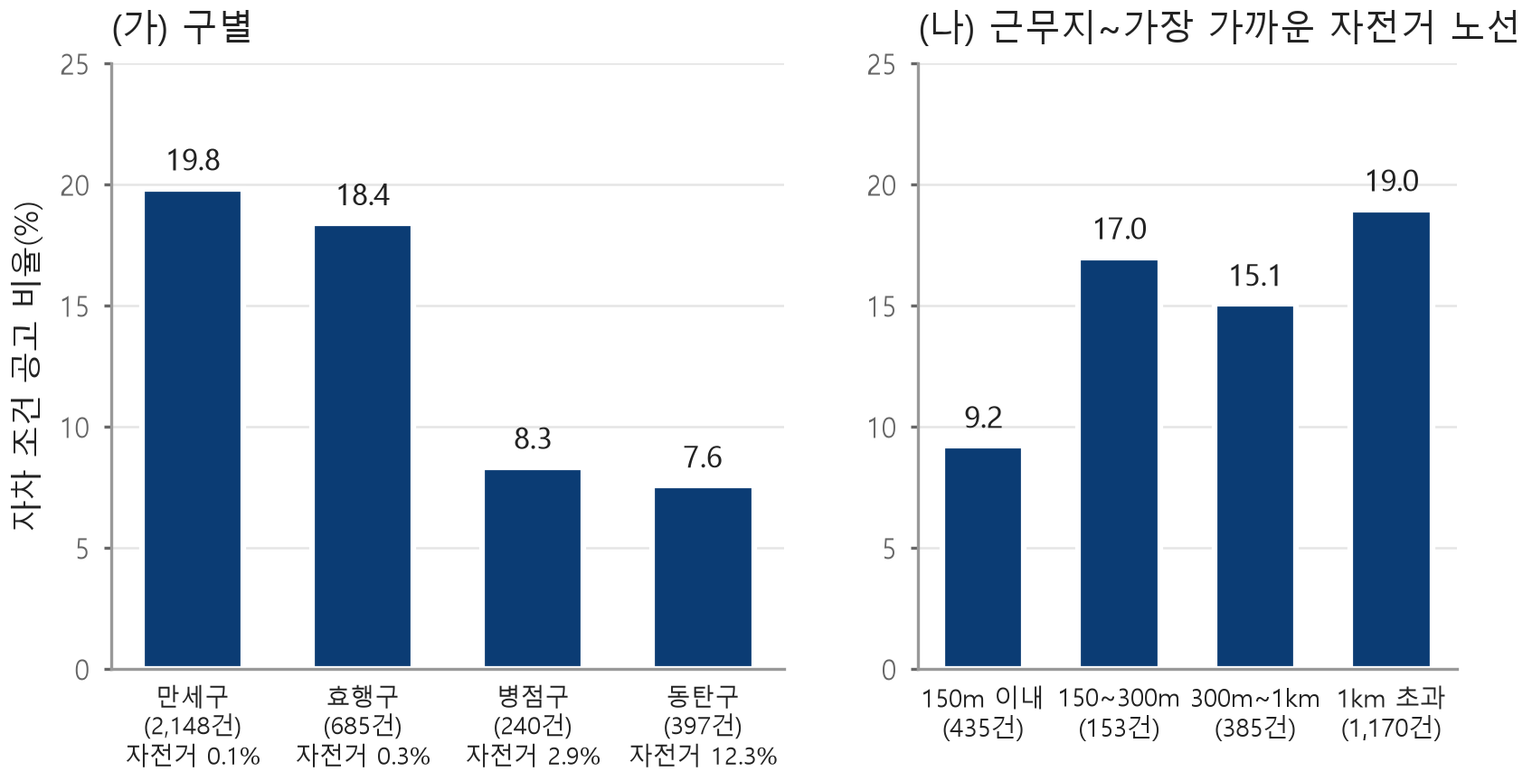
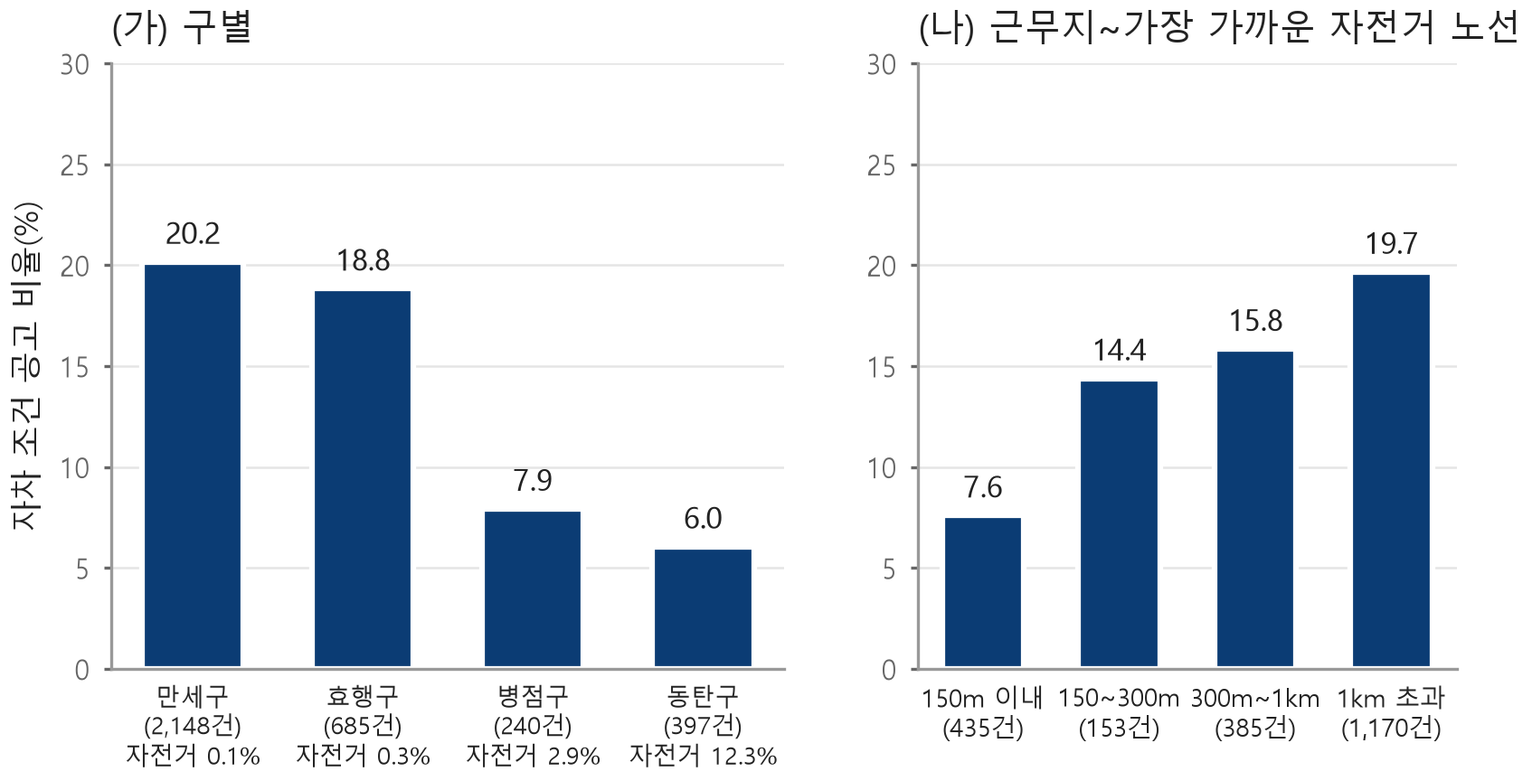
Update jobs analysis: parser fix and full review of 852 postings
Parser now keeps comma-separated preference text and the other-wishes field;
candidates re-selected (852) and every posting re-read for the final labels.
Aggregates, figure and prompts updated.

diff --git a/jobs/scripts/03_prepare.py b/jobs/scripts/03_prepare.py
@@ -1,6 +1,6 @@
 """AI 분류 대상 선정·배치 작성과 규칙 기반 기준 분류.
 
-대상: 우대조건 '차량소지자'이거나, 본문·우대·복리후생에 자차·차량 소지·출퇴근·통근·대중교통 표현이 있는 공고.
+대상: 우대조건 '차량소지자'이거나, 본문·기타 우대사항·그 밖의 희망사항·기타 복리후생에 자차·차량 소지·출퇴근·통근·대중교통 표현이 있는 공고.
 AI에는 분류에 필요한 칸만 넣는다(전화·이메일은 02에서 지움, 담당자 정보는 처음부터 없음).
 규칙 기준(rule_*)은 AI 없이 정규식만으로 같은 항목을 판정해, AI가 더해 준 것이 무엇인지 비교하는 데 쓴다.
 """
@@ -8,7 +8,8 @@ import json, os, random, re
 from pathlib import Path
 
 DATA = Path(os.environ.get('JOBS_DATA', 'jobs_private'))
-CAR = re.compile(r'자차|자가용|자가\s*차량|개인\s*차량|본인\s*차량|차량\s*(?:소지|소유|보유)|차량소지|차\s*(?:있으신|있는)\s*분')
+CAR = re.compile(r'자차|자가용|자가\s*차량|자가\s*운전|개인\s*차량|본인\s*차량|차량\s*(?:소지|소유|보유)|차량소지|차\s*(?:있으신|있는)\s*분|'
+                 r'자동차\s*(?:로\s*)?(?:출근|출퇴근|통근)|차량\s*(?:을|으로|로)?\s*(?:이용|출근|출퇴근|통근)')
 COMMUTE = re.compile(r'출퇴근|출\s*퇴근|통근|대중교통|교통편|교통이?\s*불편|셔틀')
 MUST = re.compile(r'(?:자차|자가용|차량|차)\s*(?:소지|소유|보유)?\s*(?:필수|필요|필히|있어야|있으셔야|소지자만|가능자만)|(?:필수)\s*[:：]?\s*[^■◆]{0,30}(?:자차|자가용|차량\s*소지)')
 WORK_DRIVE = re.compile(r'방문|라운딩|배송|배달|영업|출장|납품|외근|현장\s*(?:이동|순회)|순회|운전\s*(?:업무|가능자 필수)')
@@ -16,7 +17,7 @@ BATCH = 40
 
 
 def text_of(r):
-    return ' '.join([r['title'], r['body'], r['pref_other'], r['benefit_other']])
+    return ' '.join([r['title'], r['body'], r['pref_other'], r['other_wish'], r['benefit_other']])
 
 
 def rule_label(r):
@@ -42,9 +43,18 @@ def ai_record(r):
         body = ' … '.join(keep)[:2500]
     return dict(id=r['id'], title=r['title'], occupation=r['occupation'], industry=r['industry'],
                 work_hours=r['work_hours'][:200], work_form=r['work_form'][:80],
-                pref_condition=r['pref_condition'], pref_other=r['pref_other'][:400],
+                pref_condition=r['pref_condition'], pref_other=r['pref_other'][:400], other_wish=r['other_wish'][:400],
                 benefit_shuttle='제공' if r['benefits'].get('통근버스') else '미제공',
                 benefit_other=r['benefit_other'][:200], body=body)
+
+
+def same_input(old, new):
+    """예전 배치에는 other_wish 칸이 없었다. 그 칸이 비어 있으면('-') 같은 입력으로 본다."""
+    if old is None:
+        return False
+    if 'other_wish' not in old and new.get('other_wish', '') in ('', '-'):
+        new = {k: v for k, v in new.items() if k != 'other_wish'}
+    return old == new
 
 
 def main():
@@ -57,13 +67,15 @@ def main():
         r.update(rule_label(r))
         if r['cand']:
             cand.append(r)
-    # 수집 도중에 분류를 시작할 수 있게, 이미 배치에 들어간 공고는 그대로 두고 새 후보만 새 배치로 덧붙인다
+    # 수집 도중에 분류를 시작할 수 있게, 이미 배치에 들어간 공고는 그대로 두고 새 후보만 새 배치로 덧붙인다.
+    # 파싱을 고쳐 AI 입력이 달라진 공고도 새 배치로 다시 넣는다(04는 뒤 배치의 입력·라벨로 덮어쓴다).
     bdir = DATA / 'batches'
     bdir.mkdir(exist_ok=True)
-    done = set()
-    for p in bdir.glob('batch_*.json'):
-        done |= {r['id'] for r in json.loads(p.read_text(encoding='utf-8'))}
-    new = sorted((r for r in cand if r['id'] not in done), key=lambda r: r['id'])
+    done = {}
+    for p in sorted(bdir.glob('batch_*.json')):
+        done |= {r['id']: r for r in json.loads(p.read_text(encoding='utf-8'))}
+    new = sorted((r for r in cand if not same_input(done.get(r['id']), ai_record(r))), key=lambda r: r['id'])
+    n_changed = sum(r['id'] in done for r in new)
     random.Random(20261022).shuffle(new)  # 배치에 구·업종이 몰리지 않게 섞는다(고정 시드)
     start = len(list(bdir.glob('batch_*.json')))
     for k, i in enumerate(range(0, len(new), BATCH)):
@@ -74,7 +86,8 @@ def main():
             f.write(json.dumps({k: r[k] for k in ('id', 'info_type', 'gu', 'occupation', 'industry', 'flag_pref_car', 'cand',
                                                   'rule_car_level', 'rule_car_purpose')} |
                                {'shuttle_struct': r['benefits'].get('통근버스', False)}, ensure_ascii=False) + '\n')
-    print(f'postings {len(recs)}, candidates {len(cand)}, new {len(new)}, batch files {len(list(bdir.glob("batch_*.json")))}')
+    print(f'postings {len(recs)}, candidates {len(cand)}, new {len(new)} (input changed {n_changed}), '
+          f'batch files {len(list(bdir.glob("batch_*.json")))}')
 
 
 if __name__ == '__main__':

diff --git a/jobs/scripts/05_analyze.py b/jobs/scripts/05_analyze.py
@@ -4,6 +4,8 @@
 지표(공고 비율):
   car_any      자차 조건(필수·우대)이 있는 공고
   car_nonwork  그중 차가 업무 자체에 필요한 경우(방문·배송·영업 등)를 뺀 공고 = 차가 출퇴근·지원 조건으로 작동할 수 있는 공고
+               (업무 = 개인 차량 업무 이동이 적힌 공고 + 직무가 근무지 밖 이동인데 회사 차량 언급이 없는 업무추정 공고)
+  민감도       업무라고 명시된 공고만 뺀 값(car_nonwork_explicit)
   car_commute  출퇴근·대중교통 불편을 이유로 적은 공고
 근무지 거리: 공고의 근무 예정지 좌표(고용24 지도 좌표) → 복원한 합집합 자전거망(측면 접속 가능한 노선), GBIS 노선 정류소.
 결과는 집계만 results/에 쓴다. 공고별 원문·좌표는 JOBS_DATA(비공개)에만 둔다.
@@ -39,10 +41,6 @@ OCC_RULES = [  # 고용24 '모집 직종' 이름 → 직종군 (위에서부터 
     ('음식·청소·경비', r'조리|주방|급식|청소|경비|미화|주차|세탁|서빙|음식|환경'),
 ]
 
-
-# 넓은 업무 기준(민감도): 공고에 근무 중 이동 직무가 적혀 있으면 차가 업무용일 수 있다고 보고 뺀다
-WORK_TRAVEL = re.compile(r'설치\s*방문|방문\s*설치|납품|출장|현장\s*(?:설치|이동|업무|방문|순회|지원|관리)|근무지\s*[:：]?\s*현장|외근|영업|라운딩|'
-                         r'방문\s*(?:요양|간호|목욕|업무|상담)|배송|순회|A/?S|거래처')
 
 
 def occ_group(name):
@@ -166,11 +164,11 @@ def main():
                  pref_car_struct=p['flag_pref_car'], car_any=lv in ('필수', '우대'),
                  car_nonwork=lv in ('필수', '우대') and pu != '업무', car_commute=lv in ('필수', '우대') and pu == '출퇴근',
                  car_must_nonwork=lv == '필수' and pu != '업무',
-                 car_nonwork_broad=lv in ('필수', '우대') and pu != '업무' and not WORK_TRAVEL.search(
-                     ' '.join([p['title'], p['body'], p['pref_other'], p['occupation']])),
+                 car_nonwork_explicit=lv in ('필수', '우대') and not (pu == '업무' and not lab.get('work_inferred')),
                  shuttle=bool(p['benefits'].get('통근버스')) or (lab is not None and lab['shuttle'] == '예'),
                  transit_barrier=lab is not None and lab['transit_barrier'] == '예',
-                 night=lab is not None and lab['night_or_shift'] == '예', lv=lv, pu=pu, d_bike=math.nan, d_stop=math.nan)
+                 night=lab is not None and lab['night_or_shift'] == '예', lv=lv, pu=pu,
+                 work_inferred=bool(lab and lab.get('work_inferred')), d_bike=math.nan, d_stop=math.nan)
         if p.get('lon'):
             x, y = tf.transform(p['lon'], p['lat'])
             pt = shapely.Point(x, y)
@@ -213,7 +211,7 @@ def main():
     pw = [r for r in prod if r['gu'] in WEST]; pe = [r for r in prod if r['gu'] in GU and r['gu'] not in WEST]
     known = [r for r in rows if r['gu'] in GU]
     mh = mantel_haenszel(known, lambda r: r['gu'] in WEST, lambda r: r['car_nonwork'], lambda r: r['occ'])
-    mh_broad = mantel_haenszel(known, lambda r: r['gu'] in WEST, lambda r: r['car_nonwork_broad'], lambda r: r['occ'])
+    mh_explicit = mantel_haenszel(known, lambda r: r['gu'] in WEST, lambda r: r['car_nonwork_explicit'], lambda r: r['occ'])
     geo = [r for r in rows if not math.isnan(r['d_bike'])]
     mh_bike = mantel_haenszel(geo, lambda r: r['d_bike'] > 300, lambda r: r['car_nonwork'], lambda r: r['occ'])
     mh_bike_stop = mantel_haenszel(geo, lambda r: r['d_bike'] > 300, lambda r: r['car_nonwork'],
@@ -232,11 +230,12 @@ def main():
                   car_any_without_struct_flag=sum(1 for r in rows if r['car_any'] and not r['pref_car_struct']),
                   struct_flag_but_work=sum(1 for r in rows if r['pref_car_struct'] and r['pu'] == '업무'),
                   mh_or_west_vs_east_by_occ=mh, mh_or_bike_over300_by_occ=mh_bike,
-                  broad_work_sensitivity=dict(
-                      car_nonwork_broad=sum(r['car_nonwork_broad'] for r in rows),
-                      west=sum(1 for r in known if r['gu'] in WEST and r['car_nonwork_broad']),
-                      east=sum(1 for r in known if r['gu'] not in WEST and r['car_nonwork_broad']),
-                      mh_or_west_vs_east_by_occ=mh_broad),
+                  work_inferred=sum(1 for r in rows if r['lv'] in ('필수', '우대') and r['work_inferred']),
+                  explicit_work_only_sensitivity=dict(
+                      car_nonwork_explicit=sum(r['car_nonwork_explicit'] for r in rows),
+                      west=sum(1 for r in known if r['gu'] in WEST and r['car_nonwork_explicit']),
+                      east=sum(1 for r in known if r['gu'] not in WEST and r['car_nonwork_explicit']),
+                      mh_or_west_vs_east_by_occ=mh_explicit),
                   mh_or_bike_over300_by_occ_and_stop500=mh_bike_stop,
                   mh_or_bike_over150_by_occ=mh150, mh_or_bike_over150_by_occ_and_stop300=mh150_stop,
                   mh_or_bike_over150_by_occ_and_region=mh150_region,

diff --git a/jobs/scripts/04_merge_labels.py b/jobs/scripts/04_merge_labels.py
@@ -4,6 +4,7 @@
 - 1차·2차가 같은 항목은 그대로 쓰고, 다른 항목은 adjudication.json(원문을 다시 읽고 정한 값)을 쓴다.
 - 일치도는 단순 일치율과 Cohen's kappa를 함께 낸다.
 - 최종 판정 전수 검수(prompt_audit.md)에서 확인된 수정은 audit_fixes.json으로 덮어쓰고, 고친 건수만 ai_agreement.csv에 남긴다.
+- 마지막으로 Claude가 원문 전체를 한 건씩 읽은 판정(claude_review.jsonl, 기준 prompt_review.md)을 최종값으로 쓴다.
 """
 import json, os, re
 from collections import Counter
@@ -36,7 +37,7 @@ def evidence_ok(rec, src):
         return True
     if not ev:
         return False
-    text = norm(' '.join(str(src.get(k, '')) for k in ('title', 'body', 'pref_other', 'benefit_other', 'work_hours')))
+    text = norm(' '.join(str(src.get(k, '')) for k in ('title', 'body', 'pref_other', 'other_wish', 'benefit_other', 'work_hours')))
     for piece in [p.strip() for p in ev.split(' / ') if p.strip()]:
         if piece == '[우대조건: 차량소지자]':
             if '차량소지자' not in src.get('pref_condition', ''):
@@ -103,6 +104,34 @@ def main():
             rec['source'] += '+검수수정'
             n_fixed += 1
     print('audit fixes applied', n_fixed)
+    # Claude 전수 확인(prompt_review.md 기준으로 원문 전체를 한 건씩 읽은 판정)을 최종값으로 쓴다.
+    # 업무추정(직무가 근무지 밖 이동이고 회사 차량 언급이 없음)은 car_purpose='업무', work_inferred=True로 둔다.
+    rev_path = DATA / 'claude_review.jsonl'
+    rev = {}
+    if rev_path.exists():
+        for line in open(rev_path, encoding='utf-8'):
+            r = json.loads(line)
+            rev[r['id']] = r
+    MAP = dict(lv='car_level', pu='car_purpose', tb='transit_barrier', sh='shuttle', ns='night_or_shift')
+    n_rev, rev_fields = 0, Counter()
+    for rec in final:
+        r = rev.get(rec['id'])
+        rec['work_inferred'] = False
+        if not r:
+            continue
+        new = {MAP[k]: r[k] for k in MAP}
+        new['car_purpose'] = {'-': '해당없음', '업무추정': '업무'}.get(new['car_purpose'], new['car_purpose'])
+        changed = [f for f, v in new.items() if rec[f] != v]
+        rev_fields.update(changed)
+        rec.update(new)
+        rec['work_inferred'] = r['pu'] == '업무추정'
+        rec['evidence'] = r['ev'] if new['car_level'] != '없음' else ''
+        if changed:
+            rec['source'] += '+전수확인수정'
+            n_rev += 1
+    ev_final_bad = [rec['id'] for rec in final if not evidence_ok(rec, src[rec['id']])]
+    print('claude review applied', len(rev), 'changed postings', n_rev, dict(rev_fields),
+          'final evidence bad', len(ev_final_bad), ev_final_bad[:20])
     (DATA / 'adjudication_todo.json').write_text(json.dumps(todo, ensure_ascii=False, indent=1), encoding='utf-8')
     with open(DATA / 'labels_final.jsonl', 'w', encoding='utf-8') as f:
         for r in final:
@@ -117,6 +146,13 @@ def main():
         for k in FIELDS:
             if fixed_fields[k]:
                 f.write(f'audit_fixed_{k},{len(final)},{fixed_fields[k]},\n')
+        f.write(f'review_checked_postings,{len(final)},{len(rev)},\n')
+        f.write(f'review_changed_postings,{len(final)},{n_rev},\n')
+        for k in FIELDS:
+            if rev_fields[k]:
+                f.write(f'review_changed_{k},{len(final)},{rev_fields[k]},\n')
+        f.write(f'review_work_inferred,{len(final)},{sum(r["work_inferred"] for r in final)},\n')
+        f.write(f'final_evidence_not_in_text,{len(final)},{len(ev_final_bad)},\n')
     print('problems', len(problems), problems[:10])
     print('agreement', {k: (round(a, 3), round(b, 3)) for k, (a, b) in agree.items()}, 'evidence bad', ev_bad)
     print('to adjudicate', len(todo), 'final', len(final), Counter(r['source'] for r in final))

diff --git a/jobs/scripts/02_parse.py b/jobs/scripts/02_parse.py
@@ -10,7 +10,7 @@ DATA = Path(os.environ.get('JOBS_DATA', 'jobs_private'))
 LABELS = ['모집 인원', '장애인 채용 인원', '모집 직종', '관련 직종', '직종 키워드', '경력', '학력', '자격 면허',
           '근무조건', '고용 형태', '임금 조건', '근무 시간', '상세 근무시간', '근무 형태', '사회보험', '퇴직급여',
           '근무 예정지', '인근 전철역', '버스 노선 번호', '전공', '컴퓨터 활용 능력', '외국어 능력',
-          '우대조건', '기타 우대사항', '기타사항', '복리후생', '기타 복리후생', '장애인용 복지시설', '작업환경',
+          '우대조건', '기타 우대사항', '기타사항', '그 밖의 희망사항', '복리후생', '기타 복리후생', '장애인용 복지시설', '작업환경',
           '전형방법', '접수 마감일']
 COMPANY_LABELS = ['기업명', '업종', '기업규모', '설립연도', '연매출액', '근로자수', '채용정보 이력']
 BENEFITS = ['통근버스', '기숙사', '차량유지비', '교육비 지원', '자녀 학자금 지원', '주택자금 지원', '직원대출제도', '모성보호시설']
@@ -19,14 +19,9 @@ EMAIL = re.compile(r'[\w.+-]+@[\w-]+\.[\w.]+')
 
 
 def clean_text(page):
-    t = re.sub(r'<script.*?</script>|<style.*?</style>|<!--.*?-->', ' ', page, flags=re.S)
+    # 표 캡션('모집 인원,…을(를) 제공하는 표')은 <caption> 태그째 지운다. 글자로 지우면 쉼표가 든 앞 칸 내용까지 지워진다.
+    t = re.sub(r'<script.*?</script>|<style.*?</style>|<!--.*?-->|<caption[^>]*>.*?</caption>', ' ', page, flags=re.S)
     t = html.unescape(re.sub(r'<[^>]+>', ' ', t))
-    return re.sub(r'\s+', ' ', t)
-
-
-def drop_captions(t):
-    """'모집 인원,장애인 채용 인원,…을(를) 제공하는 표' 같은 표 캡션만 지운다(본문에는 쓰지 않는다)."""
-    t = re.sub(r'\S+(?: \S+)?(?:,[^,]{1,25}?)+을\(를\) 제공하는 표', ' ', t)
     return re.sub(r'\s+', ' ', t)
 
 
@@ -56,10 +51,10 @@ def parse(page):
     stop = stop if stop > 0 else start
     body = t[start:stop]
     contact = t.find('채용 담당자 채용 담당자 정보', stop)  # 담당자 영역은 통째로 버린다
-    rest = drop_captions(' ' + t[stop:contact if contact > stop else len(t)])
+    rest = ' ' + t[stop:contact if contact > stop else len(t)]
     f = fields_in(rest, LABELS)
     comp_start = t.find('기업정보 더보기')
-    c = fields_in(drop_captions(' ' + t[comp_start:]) if comp_start >= 0 else '', COMPANY_LABELS)
+    c = fields_in(' ' + t[comp_start:] if comp_start >= 0 else '', COMPANY_LABELS)
     ben_text = f.get('복리후생', '')
     # 표에서 제공 항목은 이름만, 미제공 항목은 '이름 미제공'으로 적힌다
     benefits = {}
@@ -76,6 +71,7 @@ def parse(page):
         workplace=scrub(f.get('근무 예정지', '').replace('지도 보기 길찾기', ''))[:150],
         near_station=f.get('인근 전철역', '')[:80], bus_routes=f.get('버스 노선 번호', '')[:150],
         pref_condition=f.get('우대조건', '')[:120], pref_other=scrub(f.get('기타 우대사항', '').split(' 고용허가제')[0])[:600],
+        other_wish=scrub(f.get('그 밖의 희망사항', ''))[:600],
         benefit_other=scrub(f.get('기타 복리후생', ''))[:400], benefits=benefits,
         industry=c.get('업종', '')[:80], company_size=c.get('기업규모', '')[:40], employees=c.get('근로자수', '')[:40],
         registered=reg.group(1) if reg else '',

diff --git a/jobs/README.md b/jobs/README.md
@@ -16,7 +16,8 @@
 ## 개인정보와 공개 범위
 
 공고 원문에는 채용 담당자 이름·전화·이메일이 있다. `02_parse.py`는 담당자 영역을 읽지 않고, 본문의 전화번호·이메일은
-지운 뒤에만 AI에 넣는다. 원문·좌표는 `JOBS_DATA`(비공개 폴더)에만 두고, 이 폴더의 `results/`에는 집계만 올린다.
+지운 뒤에만 AI에 넣는다(공고 제목에 적힌 회사·고용센터 대표번호 2건은 개인 연락처가 아니어서 그대로 들어갔다).
+원문·좌표는 `JOBS_DATA`(비공개 폴더)에만 두고, 이 폴더의 `results/`에는 집계만 올린다.
 
 ## 실행 (저장소 루트, `JOBS_DATA`=비공개 폴더)
 
@@ -24,14 +25,14 @@
 python -X utf8 jobs/scripts/01_collect.py all      # 목록 → 상세 원문(gzip)
 python -X utf8 jobs/scripts/02_parse.py            # 항목 추출, 담당자 정보 제외
 python -X utf8 jobs/scripts/03_prepare.py          # AI 분류 대상 선정·배치, 규칙 기반 기준 분류
+#   (입력이 바뀐 공고와 새 후보만 새 배치로 덧붙인다. 04는 뒤 배치의 입력·라벨을 쓴다)
 #   AI 분류: prompt_classify.md로 1차(A, Claude Opus)·2차(B, Claude Sonnet)를 서로 모르게 따로 실행
 #   → JOBS_DATA/labels/passA, passB/batch_*.json
 python -X utf8 jobs/scripts/04_merge_labels.py     # 형식·근거 문장 대조, 일치도, 불일치 목록
-#   불일치는 prompt_adjudicate.md로 재판정 → JOBS_DATA/adjudication.json, 다시 04 실행
-#   최종 판정 775건 전수 검수: prompt_audit.md(Claude Opus, 20묶음) → 규칙에 어긋난 것만
-#   JOBS_DATA/audit_fixes.json에 적고 다시 04 실행(고친 건수는 results/ai_agreement.csv 끝줄)
-JOBS_NET_ROOT=<복원 망 작업 폴더> JOBS_GBIS=<GBIS CSV 폴더> JOBS_COMMUTE_RESULTS=commute/results \
-python -X utf8 jobs/scripts/05_analyze.py          # 구·직종·거리별 집계, 검증용 무작위 100건 시트
+#   불일치는 prompt_adjudicate.md로 재판정 → JOBS_DATA/adjudication.json
+#   AI 검수(prompt_audit.md) 수정 → JOBS_DATA/audit_fixes.json
+#   Claude 전수 확인(prompt_review.md, 852건을 원문 전체로 한 건씩) → JOBS_DATA/claude_review.jsonl, 다시 04 실행
+JOBS_NET_ROOT=<복원 망 작업 폴더> JOBS_GBIS=<GBIS CSV 폴더> JOBS_COMMUTE_RESULTS=commute/results python -X utf8 jobs/scripts/05_analyze.py          # 구·직종·거리별 집계, 검증용 무작위 100건 시트
 python -X utf8 jobs/scripts/06_figure.py           # 그림(보고서 그림 3)
 python -X utf8 jobs/scripts/07_verify_sheet_html.py # 무작위 100건 시트를 원문과 나란히 보는 HTML(비공개 폴더)
 ```
@@ -39,13 +40,27 @@ python -X utf8 jobs/scripts/07_verify_sheet_html.py # 무작위 100건 시트를
 AI 분류는 같은 입력에도 결과가 조금씩 달라질 수 있다. 그래서 두 모델의 결과를 비교하고, 근거 문장이 원문에 실제로
 있는지 기계적으로 확인하며, 사람이 원문과 대조할 무작위 100건 시트(`verify_sheet_100.csv`)를 만든다.
 
-2026-10-22 전수 검수 결과: 775건 중 검수자가 '틀림' 21건, '애매' 78건을 냈다. 틀림 21건 가운데 17건(강도 표현 없는
-'필수' → '우대')은 받아들였고, 4건('인근 거주자, 차량소지자'를 출퇴근으로 보자는 것)은 받아들이지 않았다. 이유를 적지 않은
-나열은 1·2차가 일치한 공고에서 모두 '불명'으로 판정돼 있어, 재판정 규칙 2를 그쪽에 맞춰 고쳤다. 애매 판정과 무작위 100건을
-다시 읽으며 같은 기준인데 값이 엇갈린 7건(대중교통을 직접 쓰지 않은 '대중교통 불편' 3건 포함)을 통일했다. 모두 24건,
-자차 조건 18·이유 3·대중교통 불편 3개 항목이 바뀌었다. 자차 필수·우대 공고 수(617)와 업무용을 뺀 공고 수(602)는
-그대로이고, 출퇴근 이유 공고는 158 → 157건, 대중교통 불편은 28 → 25건이 됐다. 검수는 AI가 했고 사람이 전수 확인하지는 않았다.
+## 2026-10-22 검증 기록
 
-업무용 운전의 범위가 좁다는 지적에 대비해, 제목·본문·직종에 설치 방문·납품·출장·현장 이동·영업·배송·A/S·거래처가 있는 공고를
-모두 업무용으로 보는 넓은 기준도 같이 낸다(`jobs_method_summary.json`의 `broad_work_sensitivity`). 이때도 서부 15.5%,
-동부 5.7%, 같은 직종끼리 승산비 2.40(1.68~3.43)이다.
+1. **파싱 오류 발견과 수정.** 원문 3,475건 전체에서 차·출퇴근 낱말이 AI 입력에 빠졌는지 대조했다. 두 가지가 나왔다.
+   - 표 캡션('…을(를) 제공하는 표')을 지우는 정규식이 쉼표가 든 앞 칸 내용까지 지웠다. 그 결과 '기타 우대사항' 71건이 잘리거나
+     엉뚱한 내용으로 저장됐고, '우대조건' 26건(그중 '차량소지자' 체크 15건)이 빠졌다.
+   - '그 밖의 희망사항' 칸(464건이 작성, 그중 147건에 차·출퇴근 문구)을 아예 저장하지 않았다.
+   - 캡션은 `<caption>` 태그째 지우도록 고치고 `other_wish` 칸을 더했다. 본문은 바뀌지 않았다.
+2. **후보 재선정.** `other_wish`를 후보 판정에 넣고, '자동차 출근', '차량을 이용' 같은 표현을 정규식에 더했다.
+   - 후보 밖 공고 2,633건 가운데 차·운전·출퇴근·교통·거주 낱말이 있는 793건은 Claude가 문맥을 한 건씩 읽었다.
+     놓친 자차 조건은 2건이었고, 넓힌 정규식으로 둘 다 잡힌다. 나머지 1,840건에는 해당 낱말이 없다.
+   - 후보는 775 → 852건이 됐다. 새 후보 77건과 입력이 바뀐 142건, 모두 219건은 1·2차 AI 분류를 다시 했다.
+3. **AI 검수(prompt_audit.md).** 처음 775건을 검수용 AI가 다시 읽어 24건을 고쳤다(audit_fixes.json).
+4. **Claude 전수 확인(prompt_review.md).** 852건의 원문 전체를 기존 라벨을 보지 않고 한 건씩 판정했다.
+   - 다섯 항목이 모두 기존 라벨과 같은 공고는 813건이었다.
+   - 다른 39건은 원문을 다시 읽어 정했다. 그중 6건은 Claude 판정이 틀려 고쳤다(숙직·교대 표기 누락 4, 출퇴근 유류비 문구 2).
+   - 직무가 근무지 밖 이동인데 회사 차량 언급이 없는 공고 66건은 업무(추정)로 따로 표시했다(work_inferred).
+   - 최종 근거 문장은 852건 모두 원문 대조를 통과했다.
+5. **결과(본 지표는 업무와 업무추정을 모두 뺀 보수적 값).**
+   - 자차 필수·우대 673건(19.4%), 업무용을 뺀 605건(17.4%), 출퇴근 이유 194건.
+   - 서부 19.8%, 동부 6.8%. 같은 직종끼리 비교한 승산비는 2.61(1.88~3.62).
+   - 업무라고 명시된 공고만 빼는 민감도(`explicit_work_only_sensitivity`)에서는 서부 21.7%, 동부 8.9%, 승산비 2.20(1.64~2.96).
+   - 대중교통 불편을 적은 36건 중 35건이 서부에 있다.
+
+판정은 모두 AI(Claude)가 했고 사람이 전수 확인한 것은 아니다. 무작위 100건 시트(`verify_sheet_100.html`)로 사람이 확인할 수 있다.

diff --git a/jobs/prompt_review.md b/jobs/prompt_review.md
@@ -1,0 +1,34 @@
+# 최종 판정 전수 확인 기준 (Claude, 2026-10-22)
+
+1·2차 AI 분류와 재판정이 끝난 뒤, Claude가 후보 공고 852건의 원문 전체를 한 건씩 읽었다. 읽은 칸은 제목, 본문, 우대조건,
+기타 우대사항, 그 밖의 희망사항, 기타 복리후생, 통근버스 칸, 근무시간이다. 기존 라벨은 보지 않고 먼저 판정했고,
+그 뒤 기존 라벨과 다른 공고만 원문을 다시 읽어 정했다. 이 판정이 `labels_final`의 최종값이다(04_merge_labels.py).
+
+## 자차 조건 (car_level)
+- 필수: 자차 조건에 필수·필요·필히·만·한해·한함·있어야·하여야·반드시가 붙는 경우. 대안(기숙사 등) 없이 자격요건·필수사항·조건 제목 아래에 적혀도 필수다.
+- 우대: 우대·환영·유리·희망·요망·지원 바람이라고 적었거나, 강도 표현 없이 나열했거나, 우대조건 칸에 '차량소지자'를 표시한 경우. 대안이 함께 적혀도 우대다.
+- 없음: 자차 조건이 없는 경우. 운전면허나 운전 가능만 요구한 경우, 회사 차량 운전, 유류비·차량유지비 지원만 적은 경우, 차 이야기 없이 '출퇴근 가능자'만 적은 경우가 여기에 든다.
+
+## 이유 (car_purpose)
+- 출퇴근: 다음 가운데 하나면 출퇴근이다.
+  - 자차 조건이 출퇴근·출근·통근과 한 구절로 적혔다.
+  - 위치·대중교통·교통편·외진 곳을 이유로 들었다.
+  - 통근버스·통근차량이 없다고 적었다.
+  - 자차 통근 수당(출퇴근 낱말 + 유류비·교통비)이 자차 조건과 함께 적혔다.
+- 업무: 개인 차량으로 업무 이동을 한다고 적힌 경우.
+- 업무(추정): 그런 말은 없지만 직무 자체가 근무지 밖 이동이고, 그 이동에 회사 차량을 쓴다는 말이 없는 경우.
+  - 근무지 밖 이동의 예: 방문·라운딩, 영업 외근, 본인이 하는 납품·배송, 설치·AS·현장 순회, 출장, 현장이 여러 곳이거나 바뀌는 건설 현장.
+  - 화물차·트럭 납품이나 법인차량은 회사 차량으로 본다.
+  - 어르신 한 분 댁으로 정해 다니는 방문요양은 그 댁이 근무지이므로 업무(추정)가 아니다.
+  - 최종 라벨에서는 car_purpose='업무', work_inferred=True로 둔다.
+- 불명: 위 어느 것도 아닌 경우. 거주지와 나란히 적기만 했거나, 차량소지자 칸에 체크만 했거나, 통근 낱말 없이 '유류비 지원(자차)'만 적은 경우가 여기에 든다.
+- 자차 조건 문장이 출퇴근을 직접 말하면, 직무가 이동 직무여도 출퇴근으로 둔다.
+
+## 기타 항목
+- 대중교통 불편 (transit_barrier): 대중교통·교통편·교통·버스를 직접 쓰고 없다·불편·어렵다·협소하다고 할 때만 예다. '통근버스 없음'은 회사 셔틀 이야기라서 아니오다.
+- 통근버스 (shuttle): 회사가 직원에게 통근버스·셔틀·출퇴근 차량·픽업을 제공하면 예다(복리후생 칸 포함). 카풀은 아니오다.
+- 야간·교대 (night_or_shift): 야간 근무·교대제·주야·철야·24시간·숙직이 있거나, '야간 근무 가능자 우대'처럼 야간 근무가 있을 수 있다고 적으면 예다. 연장근무(잔업·야근)만 있거나, 23시 이전에 끝나거나, 05~06시에 시작하기만 하면 아니오다.
+
+## 근거
+- 판정 근거 문장은 원문에서 그대로 옮긴다. 852건 모두 원문 대조를 통과했다(ai_agreement.csv의 final_evidence_not_in_text = 0).
+- 판정은 AI(Claude)가 했고 사람이 전수 확인한 것은 아니다.

diff --git a/README.md b/README.md
@@ -23,7 +23,7 @@ Python 3.12 이상, `pip install -r requirements.txt`.
 2. OSM 노드 번호 복원: `python -X utf8 commute/scripts/00_restore_osm_nodes.py` (2026-09-14 추출본은 도로끼리 공유하는 노드 번호가 빠져 있어 교량·터널이 끊긴 것으로 계산됩니다. 추출 시점의 OSM 공개 이력에서 되살립니다.)
 3. 공장 좌표: 화성시 공장등록 현황(2024-02)을 받아 `FACTORY_DIR`에 두고 `commute/scripts/01_geocode_factories.py`(브이월드 키 필요)를 실행합니다.
 4. `commute/scripts/` 03→02→04→05→07→06 순서로 실행합니다. 자세한 내용은 `commute/README.md`.
-5. 채용공고: `jobs/README.md`의 순서(수집 → 파싱 → AI 분류 → 합치기 → 집계 → 그림)를 따릅니다. AI 분류 지시문은 `jobs/prompt_classify.md`, 재판정·검수 규칙은 `prompt_adjudicate.md`, `prompt_audit.md`입니다.
+5. 채용공고: `jobs/README.md`의 순서(수집 → 파싱 → AI 분류 → 합치기 → 집계 → 그림)를 따릅니다. AI 분류 지시문은 `jobs/prompt_classify.md`, 재판정·검수·전수 확인 기준은 `prompt_adjudicate.md`, `prompt_audit.md`, `prompt_review.md`입니다.
 
 ## 공개하지 않는 것
 
@@ -35,4 +35,4 @@ Python 3.12 이상, `pip install -r requirements.txt`.
 
 © OpenStreetMap contributors (ODbL), GHSL GHS-POP (CC BY 4.0), 화성시 생활공간 웹포털, 화성시 공장등록 현황, 행정안전부 주민등록 인구(공공데이터포털), 통계청 KOSIS, 행정동 경계(vuski/admdongkor), 고용24(한국고용정보원), 경기버스정보(GBIS). 자세한 조건은 `DATA_LICENSES.md`.
 
-AI 도구: Claude Code(Anthropic; Claude Opus·Sonnet), Codex(OpenAI). AI가 만든 분류는 두 모델 비교, 근거 문장 원문 대조, 전수 검수로 점검했습니다.
+AI 도구: Claude Code(Anthropic; Claude Opus·Sonnet), Codex(OpenAI). 채용공고 분류는 두 모델이 따로 분류해 비교했고, 근거 문장을 원문과 대조했으며, Claude가 후보 852건의 원문 전체를 한 건씩 다시 읽어 확정했습니다(`jobs/prompt_review.md`, `jobs/README.md`의 검증 기록). 판정은 AI가 했고 사람이 전수 확인한 것은 아닙니다.

diff --git a/jobs/prompt_classify.md b/jobs/prompt_classify.md
@@ -21,6 +21,7 @@
 
 규칙
 - 입력의 `pref_condition`은 고용24 구조화 칸이다. '차량소지자'가 있으면 최소한 `우대`다. 본문에 "필수"가 있으면 `필수`로 올린다.
+- `other_wish`는 고용24 '그 밖의 희망사항' 칸(자유 기술)이다. 본문과 똑같이 읽고 근거로 쓸 수 있다. (2026-10-22 파싱 수정 후 추가)
 - 회사 주소·업종만 보고 출퇴근 이유를 추정하지 않는다. 출퇴근 이유는 원문에 근거가 있을 때만 `출퇴근`이다.
 - 운전기사 공고에서 "차량소지자" 칸만 체크된 경우, 본문에 개인 차량을 쓴다는 말이 없으면 `car_purpose`는 `불명`이다.
 - 출력은 입력 순서대로 `{"id": ..., ...}` 객체의 JSON 배열 하나뿐이다. 설명 문장을 덧붙이지 않는다.
